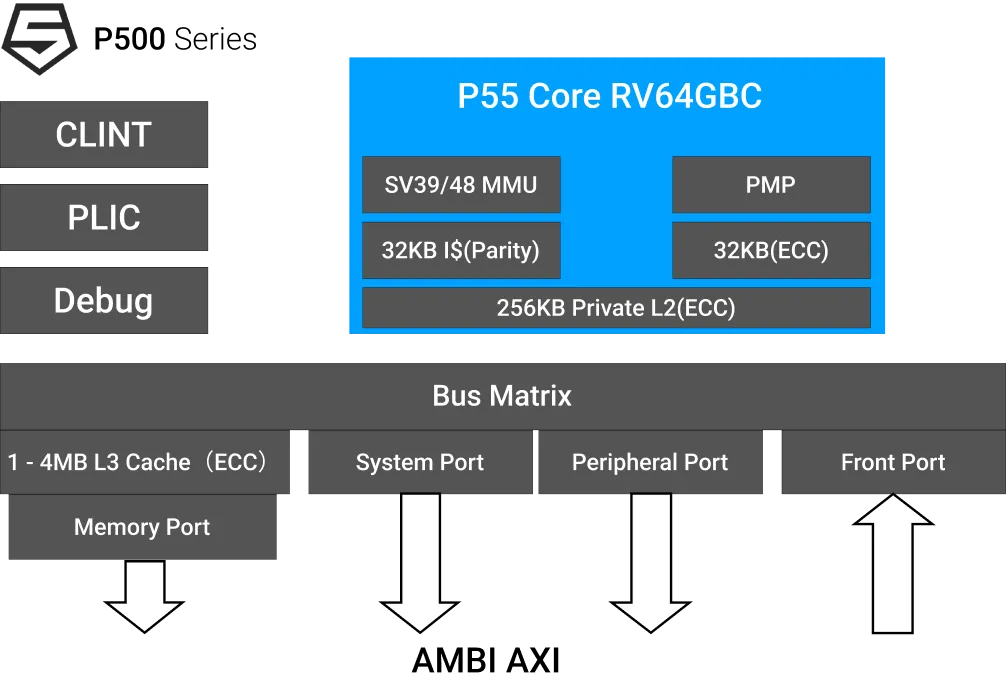
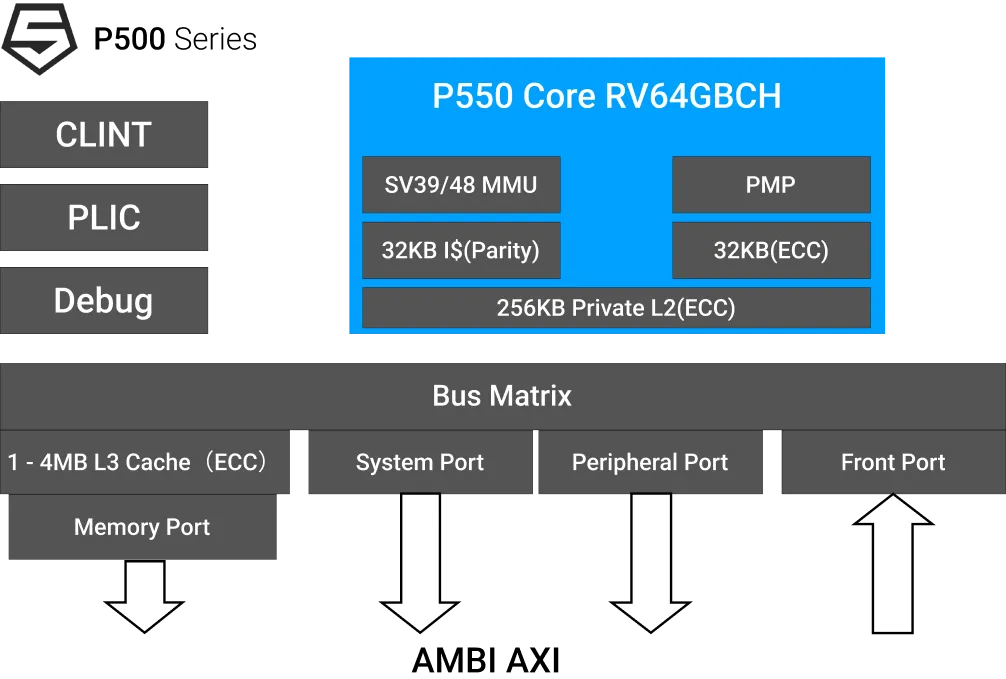
fix: megrez page

Changed region(s): [[0.4314, 0.1237, 0.8012, 0.1856]]

diff --git a/src/pages/megrez/index.module.css b/src/pages/megrez/index.module.css
@@ -229,7 +229,7 @@
 }
 
 .video {
-    aspect-ratio: 1440/375;
+    aspect-ratio: 1440/450;
 }
 
 .support2>div,
@@ -244,6 +244,12 @@
 
 .video_8k {
     width: 59.2%;
+}
+
+.video_8k>img {
+    width: 80%;
+    display: block;
+    margin: 0 auto;
 }
 
 .video_support {
@@ -531,6 +537,10 @@
     .marginBtm {
         margin-bottom: 80px !important;
     }
+
+    .video_8k>img {
+        margin: 100px auto;
+    }
 }
 
 @media screen and (max-width: 1950px) and (min-width: 1450px) {
@@ -700,6 +710,10 @@
     .marginBtm {
         margin-bottom: 80px !important;
     }
+
+    .video_8k>img {
+        margin: 80px auto;
+    }
 }
 
 @media screen and (max-width: 1450px) and (min-width: 1000px) {
@@ -841,9 +855,7 @@
     }
 
     .video>div>img {
-        width: 60%;
         display: block;
-        margin: 0 auto;
     }
 
     .support>div {
@@ -880,6 +892,10 @@
 
     .marginBtm {
         margin-bottom: 50px !important;
+    }
+
+    .video_8k>img {
+        margin: 80px auto;
     }
 }
 
@@ -1023,9 +1039,7 @@
     }
 
     .video>div>img {
-        width: 60%;
         display: block;
-        margin: 0 auto;
     }
 
     .support>div {
@@ -1063,6 +1077,10 @@
 
     .marginBtm {
         margin-bottom: 20px !important;
+    }
+
+    .video_8k>img {
+        margin: 50px auto;
     }
 }
 
@@ -1278,7 +1296,7 @@
 
     .video_support {
         width: 100%;
-        height: 230rem !important;
+        height: 280rem !important;
         background-size: cover !important;
         flex: auto;
     }

diff --git a/src/pages/megrez/index.js b/src/pages/megrez/index.js
@@ -37,7 +37,7 @@ export default () => {
                         <ol>
                             <li>
                                 <p>up to 1.8GHz</p>
-                                <p className={styles.chip_text}>Quad Core SiFive P550<br />(RV64GBC)</p>
+                                <p className={styles.chip_text}>Quad Core SiFive P550<br />(RV64GBCH)</p>
                             </li>
                             <li>
                                 <p>Up to<br /> 19.95 TOPS@INT8</p>
@@ -48,7 +48,7 @@ export default () => {
                     <div className={styles.chip2}>
                         <p className={clsx(styles.item_title)}>SiFive P550 From SiFive Performance™</p>
                         <ul>
-                            <li>RISC-V RV64GBC CPU, up to <font>1.8GHz</font></li>
+                            <li>RISC-V RV64GBCH CPU, up to <font>1.8GHz</font></li>
                         </ul>
                         <ol>
                             <li>L1 Cache: 32KB (I) + 32KB (D) private</li>
@@ -164,7 +164,7 @@ export default () => {
                         <tr>
                             <td>CPU</td>
                             <td>
-                                <p>4-Core SIFIVE P550(RISC-V RV64GBC)@1.8GHz</p>
+                                <p>4-Core SIFIVE P550(RISC-V RV64GBCH)@1.8GHz</p>
                             </td>
                         </tr>
                         <tr>
